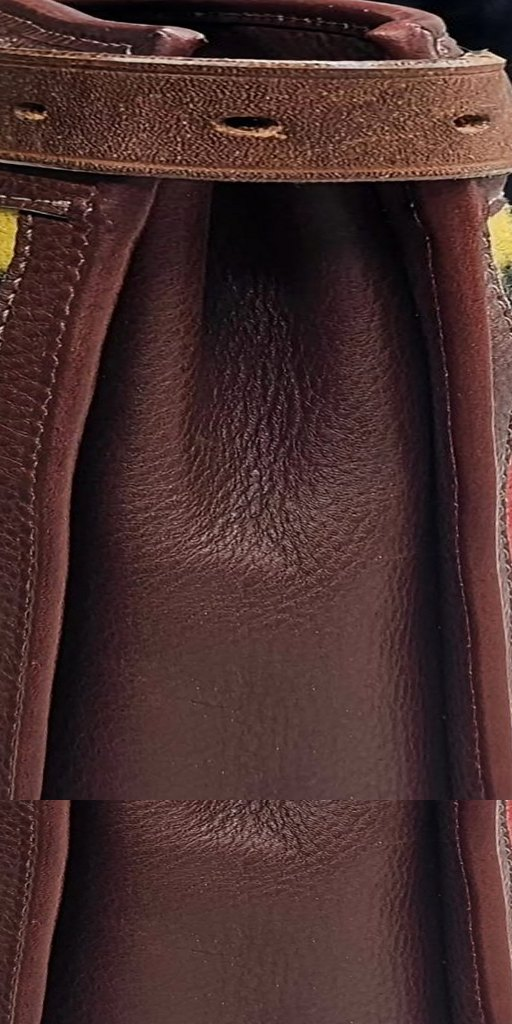
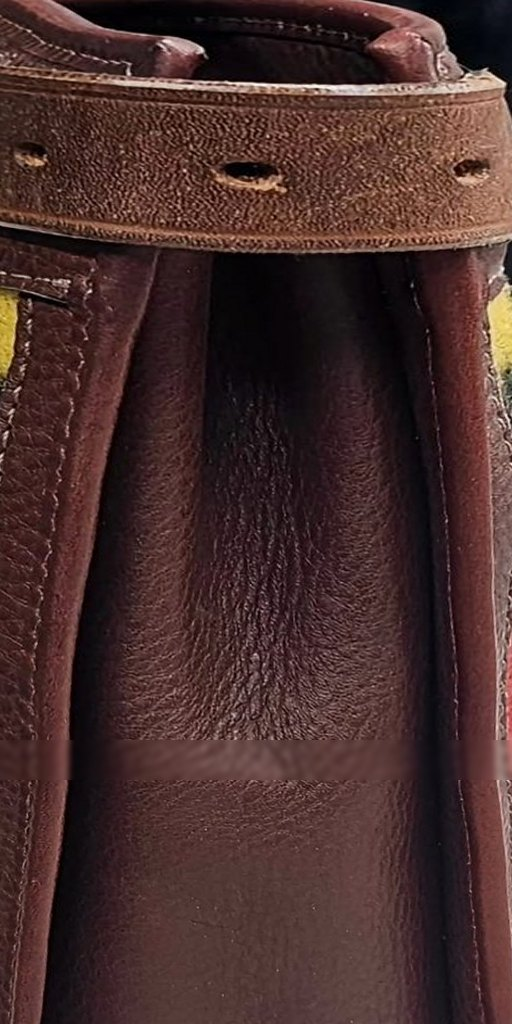
Softer, more faithful 3D bag and remove 3D section heading
Panels swell like soft leather, the gusset folds inward toward the top,
the rim sags slightly, photos double as bump maps for grain and wool
pile, and handles are thicker, sized to the front photo, lean outward
and flatten into their tabs.

Claude-Session: https://claude.ai/code/session_01FmJxLhBuSjpWMzJHhwa8oJ

diff --git a/zoe-smith-leather/js/bag3d.js b/zoe-smith-leather/js/bag3d.js
@@ -1,6 +1,7 @@
 // Interactive 3D view of the Newmarket Bag, built from Zoe's own photographs.
-// Front, back, sides and belt are the real photos; buckles, straps, tabs,
-// the horse-bit and the handles are raised in 3D on top of them.
+// Front, back, sides and belt are the real photos. The panels are shaped like
+// soft leather (bulging, with a folded gusset) and the buckles, straps, tabs,
+// horse-bit and rolled handles are raised in 3D.
 import * as THREE from 'three';
 import { OrbitControls } from '../vendor/OrbitControls.js';
 
@@ -23,15 +24,26 @@ if (stage && canvas && supportsWebGL()) {
 
 // ---------- Measurements (taken from the photographs) ----------
 const W = 1.6;          // width
-const H = 0.9;          // height of the body
+const H = 0.9;          // body height
 const DB = 0.4;         // depth at the base
-const DT = 0.2;         // depth at the top (the sides taper)
+const DT = 0.2;         // depth at the top: the sides taper
 const TILT = Math.atan(((DB - DT) / 2) / H);
 const HS = Math.hypot(H, (DB - DT) / 2);   // slanted height of front/back
 
 // photo % (u across, v down) -> local face coordinates
 const fx = u => (u / 100 - 0.5) * W;
 const fy = v => (0.5 - v / 100) * HS;
+
+// Soft leather: the front and back panels swell outwards, most in the lower
+// middle where the wool is, and not at all along the stitched edges.
+const BULGE = 0.042;
+function bulge(u, s) {               // u: 0..1 across, s: 0..1 bottom..top
+  if (u <= 0 || u >= 1) return 0;
+  const across = Math.pow(Math.sin(Math.PI * u), 0.55);
+  const up = s >= 0.94 ? 0 : Math.pow(Math.sin(Math.PI * Math.min(s / 0.94, 1)), 0.7);
+  return BULGE * across * up * (1 - 0.35 * s);
+}
+const bulgeLocal = (x, y) => bulge(x / W + 0.5, y / HS + 0.5);
 
 function init() {
   const renderer = new THREE.WebGLRenderer({ canvas, antialias: true, alpha: true });
@@ -41,8 +53,8 @@ function init() {
   const scene = new THREE.Scene();
   const camera = new THREE.PerspectiveCamera(28, 1, 0.1, 50);
 
-  scene.add(new THREE.HemisphereLight(0xfff7ec, 0x8a7562, 1.55));
-  const key = new THREE.DirectionalLight(0xffffff, 1.4); key.position.set(2.5, 4, 4); scene.add(key);
+  scene.add(new THREE.HemisphereLight(0xfff7ec, 0x8a7562, 1.5));
+  const key = new THREE.DirectionalLight(0xffffff, 1.55); key.position.set(2.5, 4, 4); scene.add(key);
   const rim = new THREE.DirectionalLight(0xffe9d2, .9); rim.position.set(-3, 2.5, -4); scene.add(rim);
 
   let pending = 0;
@@ -59,36 +71,56 @@ function init() {
 
   const leather = (o = {}) => new THREE.MeshStandardMaterial({ roughness: .8, metalness: 0, ...o });
   const gold = new THREE.MeshStandardMaterial({ color: 0xd2a650, metalness: .9, roughness: .28 });
-  const darkEdge = leather({ color: 0x3e1a12, roughness: .6 });
-  const matFront = leather({ map: texFront, roughness: .85 });
-  const matBack = leather({ map: texBack, roughness: .85 });
-  const matSide = leather({ map: texSide, roughness: .7 });
+  const darkEdge = leather({ color: 0x3e1a12, roughness: .55 });
+  // the photos double as a bump map, so the grain and wool pile catch the light
+  const matFront = leather({ map: texFront, bumpMap: texFront, bumpScale: 1.2, roughness: .85 });
+  const matBack = leather({ map: texBack, bumpMap: texBack, bumpScale: 1.2, roughness: .85 });
+  const matSide = leather({ map: texSide, bumpMap: texSide, bumpScale: 1.4, roughness: .65 });
 
   const bag = new THREE.Group();
 
-  // ---------- Body: a tapered box, narrower at the top ----------
-  {
-    const pos = [], uv = [], groups = [];
-    const quad = (a, b, c, d, ua, ub, uc, ud, mat) => {
-      const start = pos.length / 3;
-      for (const p of [a, b, c, a, c, d]) pos.push(...p);
-      for (const t of [ua, ub, uc, ua, uc, ud]) uv.push(...t);
-      groups.push([start, 6, mat]);
-    };
-    const x = W / 2, b = DB / 2, t = DT / 2;
-    // front, back, right, left, top, bottom (corners counter-clockwise from outside)
-    quad([-x, 0, b], [x, 0, b], [x, H, t], [-x, H, t], [0, 0], [1, 0], [1, 1], [0, 1], 0);
-    quad([x, 0, -b], [-x, 0, -b], [-x, H, -t], [x, H, -t], [0, 0], [1, 0], [1, 1], [0, 1], 1);
-    quad([x, 0, b], [x, 0, -b], [x, H, -t], [x, H, t], [0, 0], [1, 0], [1, 1], [0, 1], 2);
-    quad([-x, 0, -b], [-x, 0, b], [-x, H, t], [-x, H, -t], [1, 0], [0, 0], [0, 1], [1, 1], 2);
-    quad([-x, H, t], [x, H, t], [x, H, -t], [-x, H, -t], [0, 0], [1, 0], [1, 1], [0, 1], 3);
-    quad([-x, 0, -b], [x, 0, -b], [x, 0, b], [-x, 0, b], [0, 0], [1, 0], [1, 1], [0, 1], 4);
+  // ---------- Body: soft panels built as fine grids ----------
+  const parts = [];
+  function grid(nu, nv, at, mat) {
+    const pos = [], uv = [], idx = [];
+    for (let j = 0; j <= nv; j++) for (let i = 0; i <= nu; i++) {
+      const u = i / nu, v = j / nv, p = at(u, v);
+      pos.push(p.x, p.y, p.z); uv.push(p.tu ?? u, p.tv ?? v);
+    }
+    for (let j = 0; j < nv; j++) for (let i = 0; i < nu; i++) {
+      const a = j * (nu + 1) + i, b = a + 1, c = a + nu + 2, d = a + nu + 1;
+      idx.push(a, b, c, a, c, d);
+    }
     const g = new THREE.BufferGeometry();
     g.setAttribute('position', new THREE.Float32BufferAttribute(pos, 3));
     g.setAttribute('uv', new THREE.Float32BufferAttribute(uv, 2));
-    groups.forEach(([s, c, m]) => g.addGroup(s, c, m));
-    g.computeVertexNormals();
-    // open top: a stitched leather rim around a dark opening
+    g.setIndex(idx); g.computeVertexNormals();
+    const m = new THREE.Mesh(g, mat); bag.add(m); parts.push(m); return m;
+  }
+  const depthAt = s => DB + (DT - DB) * s;
+  const zFace = (u, s) => depthAt(s) / 2 + bulge(u, s) * Math.cos(TILT);
+  // front (viewed from the front: u left->right, s bottom->top)
+  grid(48, 32, (u, s) => ({ x: (u - .5) * W, y: s * H, z: zFace(u, s) }), matFront);
+  // back (viewed from behind)
+  grid(48, 32, (u, s) => ({ x: (.5 - u) * W, y: s * H, z: -zFace(u, s) }), matBack);
+  // sides: the gusset folds inwards, deeper towards the top, like the photo
+  const pleat = (w, s) => 0.05 * Math.pow(1 - Math.abs(2 * w - 1), 1.6) * Math.pow(s, 1.3);
+  for (const side of [1, -1]) {
+    grid(16, 32, (w, s) => {
+      // w: 0 at the front edge -> 1 at the back edge
+      const z = (.5 - w) * depthAt(s);
+      return { x: side * (W / 2 - pleat(w, s)), y: s * H, z, tu: w, tv: s };
+    }, matSide);
+    if (side < 0) flip(parts[parts.length - 1]);   // keep the left side facing outwards
+  }
+  function flip(mesh) {   // keep faces pointing outwards on the left side
+    const ix = mesh.geometry.index.array;
+    for (let i = 0; i < ix.length; i += 3) { const t = ix[i + 1]; ix[i + 1] = ix[i + 2]; ix[i + 2] = t; }
+    mesh.geometry.index.needsUpdate = true; mesh.geometry.computeVertexNormals();
+  }
+
+  // open top: a stitched leather rim round a dark opening
+  {
     const tc = document.createElement('canvas'); tc.width = 1024; tc.height = 160;
     const tg = tc.getContext('2d');
     tg.fillStyle = '#5c2a1e'; tg.fillRect(0, 0, 1024, 160);
@@ -98,26 +130,29 @@ function init() {
     tg.strokeStyle = 'rgba(220,195,165,.55)'; tg.setLineDash([8, 6]); tg.lineWidth = 2;
     tg.beginPath(); tg.roundRect(12, 18, 1000, 124, 34); tg.stroke();
     const tt = new THREE.CanvasTexture(tc); tt.colorSpace = THREE.SRGBColorSpace; tt.anisotropy = 8;
-    const top = leather({ map: tt, roughness: .75 });
-    const bottom = leather({ color: 0x3a1a12 });
-    bag.add(new THREE.Mesh(g, [matFront, matBack, matSide, top, bottom]));
+    // the rim sags very slightly in the middle, as soft leather does
+    grid(32, 4, (u, w) => ({ x: (u - .5) * W, y: H - 0.012 * Math.sin(Math.PI * u), z: (w - .5) * -DT }), leather({ map: tt, roughness: .75 }));
   }
+  // base
+  grid(8, 4, (u, w) => ({ x: (u - .5) * W, y: 0.001, z: (w - .5) * DB }), leather({ color: 0x3a1a12 }));
 
-  // ---------- Rolled leather piping along every edge ----------
+  // ---------- Rolled leather piping along the edges ----------
   {
-    const x = W / 2, b = DB / 2, t = DT / 2, r = 0.011;
-    const edges = [
-      [[-x, 0, b], [-x, H, t]], [[x, 0, b], [x, H, t]], [[-x, 0, -b], [-x, H, -t]], [[x, 0, -b], [x, H, -t]],
-      [[-x, 0, b], [x, 0, b]], [[-x, 0, -b], [x, 0, -b]], [[-x, 0, b], [-x, 0, -b]], [[x, 0, b], [x, 0, -b]],
-      [[-x, H, t], [x, H, t]], [[-x, H, -t], [x, H, -t]], [[-x, H, t], [-x, H, -t]], [[x, H, t], [x, H, -t]],
+    const r = 0.012, x = W / 2, b = DB / 2, t = DT / 2;
+    const line = pts => new THREE.CatmullRomCurve3(pts.map(p => new THREE.Vector3(...p)));
+    const rimY = u => H - 0.012 * Math.sin(Math.PI * u);
+    const along = (z) => Array.from({ length: 17 }, (_, i) => { const u = i / 16; return [(u - .5) * W, rimY(u), z]; });
+    const curves = [
+      line([[-x, 0, b], [-x, H, t]]), line([[x, 0, b], [x, H, t]]),
+      line([[-x, 0, -b], [-x, H, -t]]), line([[x, 0, -b], [x, H, -t]]),
+      line([[-x, 0, b], [x, 0, b]]), line([[-x, 0, -b], [x, 0, -b]]),
+      line([[-x, 0, b], [-x, 0, -b]]), line([[x, 0, b], [x, 0, -b]]),
+      line(along(t)), line(along(-t)),
     ];
-    for (const [a, c] of edges) {
-      const curve = new THREE.LineCurve3(new THREE.Vector3(...a), new THREE.Vector3(...c));
-      bag.add(new THREE.Mesh(new THREE.TubeGeometry(curve, 1, r, 10, false), darkEdge));
-    }
+    for (const c of curves) bag.add(new THREE.Mesh(new THREE.TubeGeometry(c, 32, r, 10, false), darkEdge));
   }
 
-  // ---------- Faces: groups that sit flat on the slanted front and back ----------
+  // ---------- Faces: groups that sit on the slanted front and back ----------
   function faceGroup(back) {
     const outer = new THREE.Group(); if (back) outer.rotation.y = Math.PI;
     const g = new THREE.Group();
@@ -128,48 +163,49 @@ function init() {
   }
   const front = faceGroup(false), back = faceGroup(true);
 
-  // A raised leather piece cut to a shape, showing the real photo on its face
+  // A raised leather piece cut to a shape, showing the real photo on its face,
+  // and following the swell of the panel underneath it.
   function piece(group, mat, pts, depth, z = 0) {
     const s = new THREE.Shape(pts.map(([u, v]) => new THREE.Vector2(fx(u), fy(v))));
-    const geo = new THREE.ExtrudeGeometry(s, { depth, bevelEnabled: true, bevelThickness: .003, bevelSize: .003, bevelSegments: 2, curveSegments: 6 });
+    const geo = new THREE.ExtrudeGeometry(s, { depth, bevelEnabled: true, bevelThickness: .003, bevelSize: .003, bevelSegments: 2, curveSegments: 6, steps: 1 });
     const p = geo.attributes.position, uv = geo.attributes.uv;
-    for (let i = 0; i < p.count; i++) uv.setXY(i, p.getX(i) / W + .5, p.getY(i) / HS + .5);
+    for (let i = 0; i < p.count; i++) {
+      uv.setXY(i, p.getX(i) / W + .5, p.getY(i) / HS + .5);
+      p.setZ(i, p.getZ(i) + bulgeLocal(p.getX(i), p.getY(i)));
+    }
+    geo.computeVertexNormals();
     const m = new THREE.Mesh(geo, mat); m.position.z = z; group.add(m); return m;
   }
+  const onFace = (u, v, z) => new THREE.Vector3(fx(u), fy(v), z + bulgeLocal(fx(u), fy(v)));
   const ellipsePts = (cu, cv, ru, rv, n = 28) => Array.from({ length: n }, (_, i) => {
     const a = i / n * Math.PI * 2; return [cu + Math.cos(a) * ru, cv + Math.sin(a) * rv];
   });
 
   // --- Front ---
-  // flap behind the buckled strap
   piece(front, matFront, [[42, 0], [60, 0], [60.5, 14], [59, 24], [56, 31], [51, 35.5], [46, 31], [43, 24], [41.5, 14]], .006);
-  // buckled centre strap with its pointed tip
   piece(front, matFront, [[48.3, 0], [53.7, 0], [53.7, 46.5], [51, 50.5], [48.3, 46.5]], .01, .01);
-  // brass keeper on the strap
   { const k = new THREE.Mesh(new THREE.BoxGeometry(fx(55.4) - fx(47.2), fy(21.5) - fy(25.5), .026), gold);
-    k.position.set((fx(47.2) + fx(55.4)) / 2, (fy(21.5) + fy(25.5)) / 2, .03); front.add(k); }
-  // handle tabs
-  piece(front, matFront, [[25.5, 0], [33, 0], [33.5, 10], [31, 19], [28.6, 23], [26, 19], [25, 10]], .01, .004);
-  piece(front, matFront, [[67.5, 0], [75, 0], [75.3, 10], [73.5, 18.5], [71.2, 22.5], [68.6, 18.5], [67, 10]], .01, .004);
-  // buckled belts at each end, with keepers and brass studs
+    k.position.copy(onFace((47.2 + 55.4) / 2, 23.5, .03)); front.add(k); }
+  piece(front, matFront, [[25.5, 0], [33, 0], [33.5, 10], [31, 19], [28.6, 23], [26, 19], [25, 10]], .012, .004);
+  piece(front, matFront, [[67.5, 0], [75, 0], [75.3, 10], [73.5, 18.5], [71.2, 22.5], [68.6, 18.5], [67, 10]], .012, .004);
   piece(front, matFront, [[0, 8], [23, 8.5], [27.5, 14], [23.5, 19.5], [0, 19.5]], .01, .002);
   piece(front, matFront, [[100, 6], [78, 6.5], [74, 12], [77.5, 18], [100, 18]], .01, .002);
   piece(front, matFront, [[11.8, 6.5], [14.9, 6.5], [14.9, 20.5], [11.8, 20.5]], .012, .012);
   piece(front, matFront, [[86, 4.5], [89.2, 4.5], [89.2, 18.8], [86, 18.8]], .012, .012);
   for (const [u, v] of [[7, 11], [93.5, 10.5]]) {
-    const s = new THREE.Mesh(new THREE.SphereGeometry(.013, 16, 12), gold); s.position.set(fx(u), fy(v), .02); front.add(s);
+    const s = new THREE.Mesh(new THREE.SphereGeometry(.013, 16, 12), gold); s.position.copy(onFace(u, v, .02)); front.add(s);
   }
-  // horse-bit: leather tabs, two gilt rings and the jointed mouthpiece
+  // horse-bit
   piece(front, matFront, [[29.5, 61.8], [33, 59.2], [37.5, 59.5], [37.5, 64.5], [33, 64.5]], .008, .002);
   piece(front, matFront, [[74.5, 61.8], [71, 59.2], [66.5, 59.5], [66.5, 64.5], [71, 64.5]], .008, .002);
   for (const u of [39.6, 64.3]) {
     const ring = new THREE.Mesh(new THREE.TorusGeometry(W * .043, .0075, 14, 48), gold);
-    ring.position.set(fx(u), fy(63.6), .03); front.add(ring);
+    ring.position.copy(onFace(u, 63.6, .03)); front.add(ring);
   }
   {
-    const pts = [[42.6, 66.5], [46.5, 69], [50, 71.2], [53.5, 69], [61.3, 66.5]].map(([u, v]) => new THREE.Vector3(fx(u), fy(v), .034));
-    const left = new THREE.CatmullRomCurve3(pts.slice(0, 3)), right = new THREE.CatmullRomCurve3(pts.slice(2));
-    for (const c of [left, right]) front.add(new THREE.Mesh(new THREE.TubeGeometry(c, 24, .011, 12, false), gold));
+    const pts = [[42.6, 66.5], [46.5, 69], [50, 71.2], [53.5, 69], [61.3, 66.5]].map(([u, v]) => onFace(u, v, .034));
+    for (const c of [new THREE.CatmullRomCurve3(pts.slice(0, 3)), new THREE.CatmullRomCurve3(pts.slice(2))])
+      front.add(new THREE.Mesh(new THREE.TubeGeometry(c, 24, .011, 12, false), gold));
     for (const p of [pts[0], pts[4]]) { const e = new THREE.Mesh(new THREE.SphereGeometry(.016, 16, 12), gold); e.position.copy(p); front.add(e); }
     const j = new THREE.Mesh(new THREE.TorusGeometry(.012, .004, 10, 24), gold); j.position.copy(pts[2]); front.add(j);
   }
@@ -178,61 +214,87 @@ function init() {
   piece(back, matBack, [[45, 0], [61.5, 0], [61.5, 19.5], [45, 19.5]], .007);
   piece(back, matBack, [[50.3, 0], [56, 0], [56, 16], [50.3, 16]], .01, .008);
   piece(back, matBack, ellipsePts(53, 26.2, 4.7, 4.1), .009, .004);   // stamped Zoe Smith badge
-  piece(back, matBack, [[27, 0], [35, 0], [35.5, 10], [33, 18], [31, 20.5], [29, 18], [26.5, 10]], .01, .004);
-  piece(back, matBack, [[70, 0], [78, 0], [78.5, 10], [76, 18], [74, 20.5], [72, 18], [69.5, 10]], .01, .004);
+  piece(back, matBack, [[27, 0], [35, 0], [35.5, 10], [33, 18], [31, 20.5], [29, 18], [26.5, 10]], .012, .004);
+  piece(back, matBack, [[70, 0], [78, 0], [78.5, 10], [76, 18], [74, 20.5], [72, 18], [69.5, 10]], .012, .004);
   piece(back, matBack, [[0, 2.5], [11.5, 2.5], [11.5, 12.5], [0, 12.5]], .01, .002);
   piece(back, matBack, [[92.5, 4.5], [100, 4.5], [100, 12.5], [92.5, 12.5]], .01, .002);
 
   // ---------- Belts wrapping round each end, from the side photograph ----------
   {
-    const yTop = H * (1 - .065), yBot = H * (1 - .195);
-    const depthAt = y => DB + (DT - DB) * (y / H);
-    const beltMat = leather({ map: texBelt, roughness: .65 });
-    for (const s of [-1, 1]) {
-      const d0 = depthAt(yBot) / 2 + .012, d1 = depthAt(yTop) / 2 + .012, x = s * (W / 2 + .012);
-      const pos = s > 0
-        ? [x, yBot, d0, x, yBot, -d0, x, yTop, -d1, x, yBot, d0, x, yTop, -d1, x, yTop, d1]
-        : [x, yBot, -d0, x, yBot, d0, x, yTop, d1, x, yBot, -d0, x, yTop, d1, x, yTop, -d1];
-      const uv = s > 0 ? [0, 0, 1, 0, 1, 1, 0, 0, 1, 1, 0, 1] : [1, 0, 0, 0, 0, 1, 1, 0, 0, 1, 1, 1];
-      const g = new THREE.BufferGeometry();
-      g.setAttribute('position', new THREE.Float32BufferAttribute(pos, 3));
-      g.setAttribute('uv', new THREE.Float32BufferAttribute(uv, 2));
-      g.computeVertexNormals();
-      bag.add(new THREE.Mesh(g, beltMat));
-      // leather thickness at the belt edges
-      for (const y of [yTop, yBot]) {
-        const d = depthAt(y) / 2 + .012;
-        const c = new THREE.LineCurve3(new THREE.Vector3(x, y, -d), new THREE.Vector3(x, y, d));
-        bag.add(new THREE.Mesh(new THREE.TubeGeometry(c, 1, .005, 8, false), leather({ color: 0x6b3a22 })));
+    const beltMat = leather({ map: texBelt, bumpMap: texBelt, bumpScale: 1.4, roughness: .6 });
+    const sTop = 1 - .065, sBot = 1 - .195;
+    for (const side of [1, -1]) {
+      const m = grid(16, 3, (w, k) => {
+        const s = sBot + (sTop - sBot) * k;
+        const d = depthAt(s) / 2 + .014;
+        // the belt is pulled tight, so it bows only slightly round the end
+        return { x: side * (W / 2 + .012 + 0.006 * Math.sin(Math.PI * w)), y: s * H, z: (.5 - w) * 2 * d, tu: side > 0 ? w : 1 - w, tv: k };
+      }, beltMat);
+      if (side < 0) flip(m);
+      for (const s of [sTop, sBot]) {
+        const d = depthAt(s) / 2 + .014;
+        const c = new THREE.CatmullRomCurve3([-1, 0, 1].map(k => new THREE.Vector3(side * (W / 2 + .012 + (k === 0 ? .006 : 0)), s * H, k * d)));
+        bag.add(new THREE.Mesh(new THREE.TubeGeometry(c, 12, .005, 8, false), leather({ color: 0x6b3a22 })));
       }
     }
   }
 
-  // ---------- Rolled handles with a stitched seam ----------
+  // ---------- Rolled handles ----------
+  // Sized from the front photograph: they leave the tabs about a fifth of the
+  // way in from each end, stand almost upright, and arch to about four-fifths
+  // of the body's height above the rim. Thick and round in the middle, they
+  // flatten where they are stitched into the tabs.
   {
     const c = document.createElement('canvas'); c.width = 1024; c.height = 64;
     const g = c.getContext('2d');
     const grd = g.createLinearGradient(0, 0, 0, 64);
-    grd.addColorStop(0, '#6e2f17'); grd.addColorStop(.45, '#9b4b28'); grd.addColorStop(.55, '#a3532d'); grd.addColorStop(1, '#6e2f17');
+    grd.addColorStop(0, '#6a2c15'); grd.addColorStop(.3, '#8f4424'); grd.addColorStop(.5, '#a8582f'); grd.addColorStop(.7, '#8f4424'); grd.addColorStop(1, '#6a2c15');
     g.fillStyle = grd; g.fillRect(0, 0, 1024, 64);
-    g.strokeStyle = 'rgba(70,30,15,.9)'; g.lineWidth = 2; g.beginPath(); g.moveTo(0, 4); g.lineTo(1024, 4); g.stroke();
-    g.strokeStyle = 'rgba(225,200,170,.55)'; g.setLineDash([7, 6]); g.lineWidth = 2; g.beginPath(); g.moveTo(0, 9); g.lineTo(1024, 9); g.stroke();
-    const t = new THREE.CanvasTexture(c); t.colorSpace = THREE.SRGBColorSpace; t.wrapS = THREE.RepeatWrapping; t.repeat.set(3, 1);
-    const handleMat = leather({ map: t, roughness: .4 });
-    const top = H, rise = .7;
-    const pts = [
-      [-.336, top - .1], [-.34, top + .02], [-.348, top + .2], [-.34, top + .42], [-.27, top + .6],
-      [-.14, top + rise - .02], [0, top + rise], [.14, top + rise - .02], [.27, top + .6],
-      [.34, top + .42], [.348, top + .2], [.34, top + .02], [.336, top - .1],
+    for (let i = 0; i < 900; i++) { g.fillStyle = `rgba(255,230,200,${Math.random() * .05})`; g.fillRect(Math.random() * 1024, Math.random() * 64, 2 + Math.random() * 6, 1); }
+    g.strokeStyle = 'rgba(60,25,12,.9)'; g.lineWidth = 2; g.beginPath(); g.moveTo(0, 3); g.lineTo(1024, 3); g.stroke();
+    const t = new THREE.CanvasTexture(c); t.colorSpace = THREE.SRGBColorSpace; t.wrapS = THREE.RepeatWrapping; t.repeat.set(4, 1);
+    const handleMat = leather({ map: t, roughness: .38 });
+
+    const top = H, rise = .71, R = .036;
+    const half = W * .21;                  // tab centres sit at 29% and 71% of the width
+    const path = [
+      [-half, top - .1], [-half - .004, top + .02], [-half - .014, top + .16], [-half - .016, top + .32],
+      [-half + .006, top + .48], [-half * .72, top + .61], [-half * .4, top + rise - .018], [0, top + rise],
+      [half * .4, top + rise - .018], [half * .72, top + .61], [half - .006, top + .48], [half + .016, top + .32],
+      [half + .014, top + .16], [half + .004, top + .02], [half, top - .1],
     ];
     for (const s of [1, -1]) {
-      const z = s * (DT / 2 + .03);
-      const curve = new THREE.CatmullRomCurve3(pts.map(([x, y]) => new THREE.Vector3(x, y, z + s * (y < top ? (top - y) * Math.tan(TILT) : 0))));
-      bag.add(new THREE.Mesh(new THREE.TubeGeometry(curve, 160, .027, 18, false), handleMat));
+      const zRim = s * (DT / 2 + .034);
+      // the handles lean very slightly outwards, as they do in the photos
+      const lean = .1;
+      const curve = new THREE.CatmullRomCurve3(path.map(([x, y]) => {
+        const above = Math.max(0, y - top);
+        const below = Math.max(0, top - y);
+        return new THREE.Vector3(x, y, zRim + s * (above / rise) * lean + s * below * Math.tan(TILT));
+      }), false, 'centripetal');
+      const segs = 200, radial = 20;
+      const geo = new THREE.TubeGeometry(curve, segs, R, radial, false);
+      // taper and flatten the ends where they go into the tabs
+      const pos = geo.attributes.position, frames = curve.computeFrenetFrames(segs, false);
+      for (let i = 0; i <= segs; i++) {
+        const k = i / segs, c0 = curve.getPointAt(k);
+        const e = Math.min(k, 1 - k) / 0.1;               // 0 at the ends, 1 after the first tenth
+        const scaleR = e >= 1 ? 1 : .62 + .38 * e;
+        const flat = e >= 1 ? 1 : .55 + .45 * e;          // squashed against the bag at the ends
+        for (let j = 0; j <= radial; j++) {
+          const vi = i * (radial + 1) + j;
+          const v = new THREE.Vector3(pos.getX(vi), pos.getY(vi), pos.getZ(vi)).sub(c0);
+          v.multiplyScalar(scaleR);
+          v.z *= flat;
+          pos.setXYZ(vi, c0.x + v.x, c0.y + v.y, c0.z + v.z);
+        }
+      }
+      geo.computeVertexNormals();
+      bag.add(new THREE.Mesh(geo, handleMat));
     }
   }
 
-  bag.position.y = -0.78;
+  bag.position.y = -0.84;
   scene.add(bag);
 
   // soft shadow
@@ -262,7 +324,7 @@ function init() {
     const w = stage.clientWidth, h = stage.clientHeight;
     renderer.setSize(w, h, false);
     camera.aspect = w / h;
-    dist = Math.max(4.2, 4.0 / camera.aspect);
+    dist = Math.max(4.7, 4.3 / camera.aspect);
     camera.updateProjectionMatrix();
     const s = new THREE.Spherical().setFromVector3(camera.position.clone().sub(controls.target));
     s.radius = dist; camera.position.setFromSpherical(s).add(controls.target);

diff --git a/zoe-smith-leather/index.html b/zoe-smith-leather/index.html
@@ -108,10 +108,6 @@
   <!-- 3D VIEW -->
   <section class="block view3d" id="in-the-round">
     <div class="wrap">
-      <div class="v-head reveal">
-        <span class="eyebrow">In the round</span>
-        <h2 class="title">Every angle, <em>as it was made.</em></h2>
-      </div>
       <div class="stage" id="stage">
         <canvas id="bag3d" role="img" aria-label="Interactive 3D view of the Newmarket Bag. Drag to turn it."></canvas>
         <img class="fallback" src="img/newmarket-front.jpg" alt="The Newmarket Bag, front view" loading="lazy">
